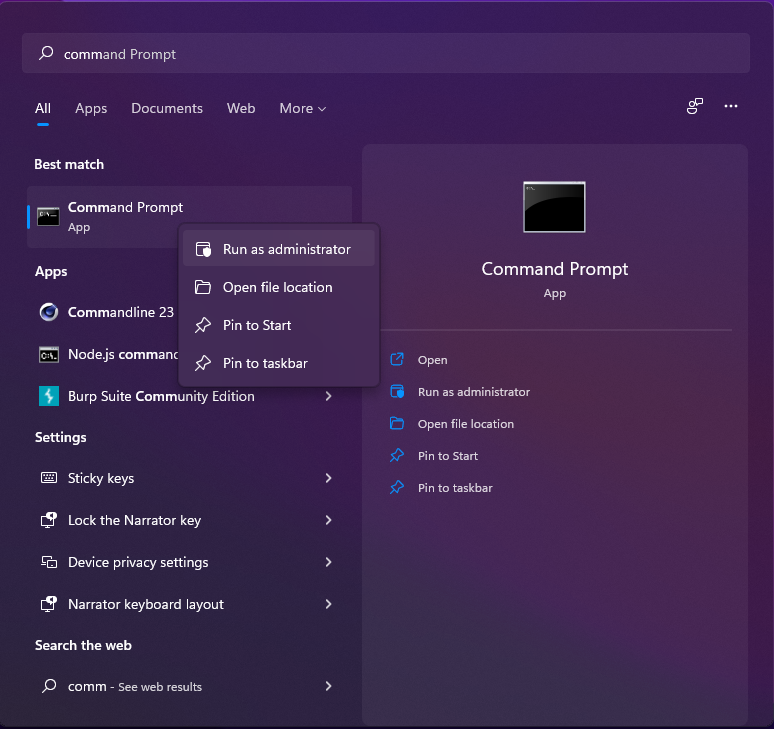
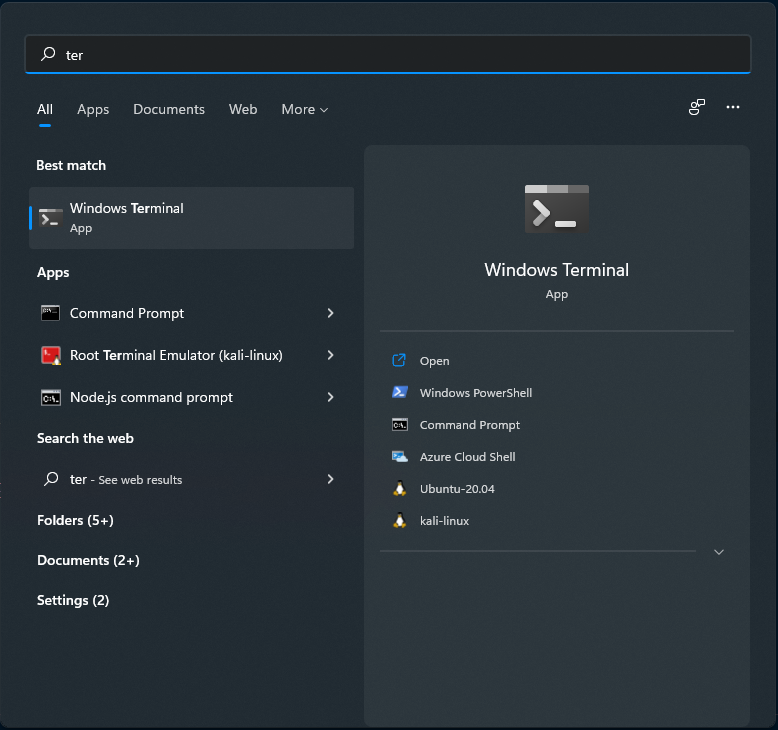
update figure

diff --git a/readme.md b/readme.md
@@ -25,7 +25,7 @@ conda create --name <env> --file requirements.txt
 
 ## Usage
 
-1. Open CMD as administrator
+1. Open CMD or Terminal
 
    ![alt text](https://github.com/TitorPs360/snake-game-ai-python/blob/main/fig/step1.png?raw=true)
 
